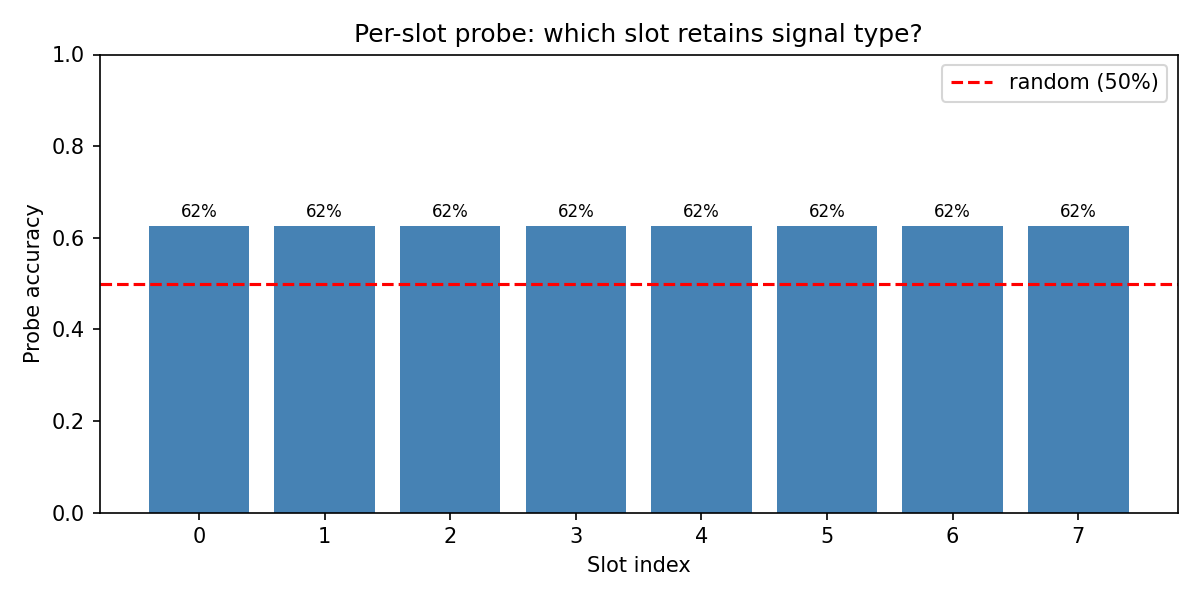
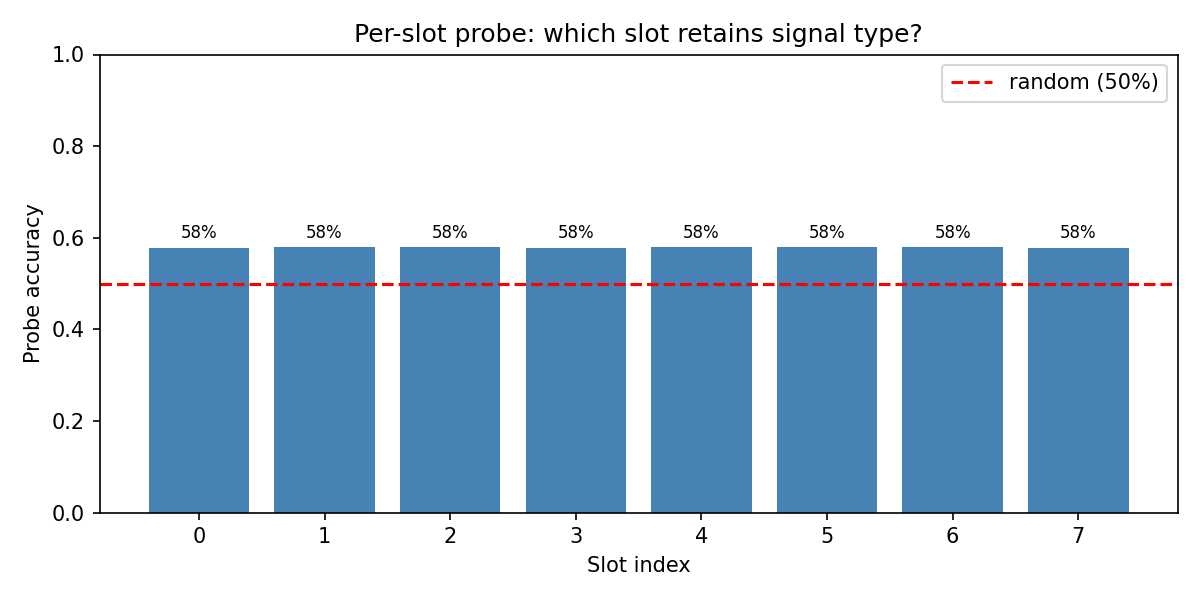
v5

Changed region(s): [[0.1233, 0.33, 0.9558, 0.42]]

diff --git a/hswvime_ppo/hswvime_ppo.py b/hswvime_ppo/hswvime_ppo.py
@@ -118,6 +118,7 @@ class HSWVimePPO(PPO):
         gate_mode: str = "detached",
         gate_scale: float = 1.0,
         gate_threshold: float = 0.0,
+        slot_temp: float = 0.1,
         wyner_kl_target: float = 0.0,
         wyner_kl_target_coef: float = 0.0,
     ):
@@ -131,6 +132,7 @@ class HSWVimePPO(PPO):
         self.gate_mode = gate_mode
         self.gate_scale = gate_scale
         self.gate_threshold = gate_threshold
+        self.slot_temp = slot_temp
         self.wyner_kl_target = wyner_kl_target
         self.wyner_kl_target_coef = wyner_kl_target_coef
 
@@ -182,7 +184,8 @@ class HSWVimePPO(PPO):
         self.intrinsic_anneal_steps = intrinsic_anneal_steps
         self.intrinsic_normalize = intrinsic_normalize
         self._kl_running_stats = RunningMeanStd()
-        self._gate_kl_running_stats = RunningMeanStd()  # Always-on stats for gate normalization
+        self._delta_I_ema = 1.0  # EMA of delta_I for ratio gating (floor=1.0 nat)
+        self._delta_I_ema_alpha = 0.01  # half-life ~70 steps
 
         self.memory_shape = memory_shape
 
@@ -205,6 +208,7 @@ class HSWVimePPO(PPO):
             gate_mode=self.gate_mode,
             gate_scale=self.gate_scale,
             gate_threshold=self.gate_threshold,
+            write_temp=self.slot_temp,
         ).to(self.device)
     
     def set_env(self, env, force_reset: bool = True):
@@ -362,16 +366,19 @@ class HSWVimePPO(PPO):
                 )
                 # delta_I = KL(posterior || slot-conditioned prior) = marginal info above memory
                 delta_I = self.policy.wyner_feature_extractor.loss(wyner_out_t).kl_loss.view(-1)
-                # Z-score normalize for gating so gate discriminates
-                gate_kl_np = delta_I.cpu().numpy()
-                self._gate_kl_running_stats.update(gate_kl_np)
-                if self._gate_kl_running_stats._warmed_up:
-                    gate_kl = (delta_I - self._gate_kl_running_stats.mean) / self._gate_kl_running_stats.std
-                else:
-                    gate_kl = delta_I
+                delta_I = delta_I.detach().clamp(max=500.0)
+                # Ratio gating: normalize by EMA of delta_I so gate is scale-invariant
+                delta_I_mean = float(delta_I.mean().item())
+                self._delta_I_ema = (
+                    (1 - self._delta_I_ema_alpha) * self._delta_I_ema
+                    + self._delta_I_ema_alpha * delta_I_mean
+                )
+                # Floor at 1.0 nat so early steps don't explode the ratio
+                ratio = delta_I / max(self._delta_I_ema, 1.0)
                 # Write z_t (Wyner posterior mean) — lives in same space as slots (dim 64)
+                # gate_threshold is now a ratio (default 2.0 = 2× average surprise)
                 new_slots, gate = self.slot_memory.write(
-                    self._last_slots, wyner_out_t.posterior_mu.detach(), gate_kl,
+                    self._last_slots, wyner_out_t.posterior_mu.detach(), ratio,
                 )
                 _gate_log.append(gate.mean().item())
                 _gate_std_log.append(gate.std().item())
@@ -392,7 +399,7 @@ class HSWVimePPO(PPO):
                 if done:
                     self._timesteps[idx] = 0
                     memory[idx, ...] = 0.0
-                    new_slots[idx] = 0.0
+                    new_slots[idx] = th.randn(self.num_slots, self._slot_memory_shape[1], device=self.device) * 0.01
 
             self._prev_last_obs = self._last_obs
             self._prev_action = actions
@@ -418,11 +425,10 @@ class HSWVimePPO(PPO):
         self.logger.record("slots/gate_std", np.mean(_gate_std_log))
         self.logger.record("slots/slot_norm_mean", np.mean(_slot_norm_log))
         self.logger.record("slots/slot_diversity", np.mean(_slot_diversity_log))
-        self.logger.record("slots/gate_kl_running_mean", self._gate_kl_running_stats.mean)
-        self.logger.record("slots/gate_kl_running_std", self._gate_kl_running_stats.std)
         self.logger.record("wyner/prior_mu_norm", np.mean(_prior_mu_norm_log))
         self.logger.record("wyner/prior_logvar_mean", np.mean(_prior_logvar_log))
         self.logger.record("wyner/delta_I_mean", np.mean(_delta_I_log))
+        self.logger.record("wyner/delta_I_ema", self._delta_I_ema)
         self.logger.record("debug/wyner_h_norm", float(th.norm(self._last_memory).item()))
         self.logger.record("debug/slots_norm", float(th.norm(self._last_slots).item()))
 

diff --git a/train.py b/train.py
@@ -2,7 +2,7 @@ import argparse
 import numpy as np
 import gymnasium
 from stable_baselines3.common.env_util import make_vec_env
-from stable_baselines3.common.callbacks import BaseCallback
+from stable_baselines3.common.callbacks import BaseCallback, CheckpointCallback
 
 from envs.wrappers import DoorButtonTrainingWrapper, MiniGridTrainingWrapper, MemorySignalVisibleWrapper
 from models.embeddings import CategoricalGridWithDirEmbedding
@@ -140,8 +140,12 @@ def parse_args():
     p.add_argument("--num_slots",       type=int,   default=8)
     p.add_argument("--gate_mode",       type=str,   default="detached",
                    choices=["detached", "learned"])
-    p.add_argument("--gate_scale",      type=float, default=1.0)
-    p.add_argument("--gate_threshold",  type=float, default=0.0)
+    p.add_argument("--gate_scale",      type=float, default=3.0,
+                   help="Sigmoid sharpness for ratio gate (3.0 = transition spans ~2x around threshold).")
+    p.add_argument("--gate_threshold",  type=float, default=2.0,
+                   help="Ratio threshold: write only if delta_I > threshold * running mean.")
+    p.add_argument("--slot_temp",       type=float, default=0.1,
+                   help="Softmax temperature for content-addressed slot write (lower = sharper).")
     p.add_argument("--wyner_kl_target", type=float, default=0.0,
                    help="Target KL for Wyner (0 = use detached-posterior KL instead).")
     p.add_argument("--wyner_kl_target_coef", type=float, default=0.0,
@@ -228,6 +232,7 @@ def main():
         gate_mode=args.gate_mode,
         gate_scale=args.gate_scale,
         gate_threshold=args.gate_threshold,
+        slot_temp=args.slot_temp,
         wyner_kl_target=args.wyner_kl_target,
         wyner_kl_target_coef=args.wyner_kl_target_coef,
         kl_use_schedule=args.kl_use_schedule,
@@ -273,7 +278,16 @@ def main():
         f"  wyner_recon={args.wyner_recon_coef}  wyner_kl={args.wyner_kl_coef}"
         f"  intrinsic={args.intrinsic_scale}"
     )
-    model.learn(total_timesteps=args.total_timesteps, progress_bar=True, callback=render_callback)
+    # Checkpoint every 100k steps
+    checkpoint_cb = CheckpointCallback(
+        save_freq=max(100_000 // args.n_envs, 1),
+        save_path=f"{args.tensorboard_log}/checkpoints",
+        name_prefix="model",
+    )
+    callbacks = [checkpoint_cb]
+    if render_callback is not None:
+        callbacks.append(render_callback)
+    model.learn(total_timesteps=args.total_timesteps, progress_bar=True, callback=callbacks)
 
     print("Done.")
 

diff --git a/models/slot_memory.py b/models/slot_memory.py
@@ -28,6 +28,7 @@ class SlotMemory(nn.Module):
         self.gate_scale = gate_scale
         self.gate_threshold = gate_threshold
         self.write_temp = write_temp
+        self.max_slot_norm = 5.0
 
         if gate_mode == "learned":
             self.gate_net = nn.Sequential(
@@ -75,6 +76,14 @@ class SlotMemory(nn.Module):
         delta = z_t.unsqueeze(1) - slots                         # (B, K, D)
         new_slots = slots + gate.view(-1, 1, 1) * w.unsqueeze(2) * delta
 
+        # ── Clamp slot norms to prevent unbounded growth ─────────
+        norms = new_slots.norm(dim=-1, keepdim=True).clamp(min=1e-6)  # (B, K, 1)
+        new_slots = th.where(
+            norms > self.max_slot_norm,
+            new_slots * (self.max_slot_norm / norms),
+            new_slots,
+        )
+
         return new_slots, gate
 
     def gate_correlation_loss(self) -> th.Tensor:
@@ -85,5 +94,5 @@ class SlotMemory(nn.Module):
         return nn.functional.mse_loss(self._last_learned_gate, target)
 
     def init_state(self, batch_size: int, device: th.device) -> th.Tensor:
-        """Zero slots. No ages tensor needed for content-addressed writes."""
-        return th.zeros(batch_size, self.num_slots, self.slot_dim, device=device)
+        """Small noise init to break softmax symmetry from the first write."""
+        return th.randn(batch_size, self.num_slots, self.slot_dim, device=device) * 0.01

diff --git a/scripts/probe_color_memory.py b/scripts/probe_color_memory.py
@@ -116,7 +116,7 @@ def build_models(device="cpu"):
 
     slot_mem = SlotMemory(
         num_slots=NUM_SLOTS, slot_dim=WYNER_LATENT_DIM,
-        gate_mode="detached", gate_scale=5.0, gate_threshold=0.0,
+        gate_mode="detached", gate_scale=3.0, gate_threshold=2.0,
     ).to(device)
 
     return vae, wyner, slot_mem
@@ -412,10 +412,15 @@ def main():
 
     if args.checkpoint:
         print(f"Loading checkpoint: {args.checkpoint}")
-        sd = th.load(args.checkpoint, map_location=args.device, weights_only=False)
-        vae_keys = {k.replace("policy.vae_feature_extractor.", ""): v
+        # SB3 checkpoints are zip files containing policy.pth
+        import zipfile, io
+        with zipfile.ZipFile(args.checkpoint, "r") as zf:
+            with zf.open("policy.pth") as f:
+                buf = io.BytesIO(f.read())
+        sd = th.load(buf, map_location=args.device, weights_only=False)
+        vae_keys = {k.replace("vae_feature_extractor.", ""): v
                     for k, v in sd.items() if "vae_feature_extractor" in k}
-        wyner_keys = {k.replace("policy.wyner_feature_extractor.", ""): v
+        wyner_keys = {k.replace("wyner_feature_extractor.", ""): v
                       for k, v in sd.items() if "wyner_feature_extractor" in k}
         if vae_keys:
             vae.load_state_dict(vae_keys)

diff --git a/models/wyner.py b/models/wyner.py
@@ -411,6 +411,7 @@ class WynerLBSVAE(nn.Module):
         self.prior_fc_mu = nn.Linear(decode_hidden, latent_dim)
         self.prior_fc_logvar = nn.Linear(decode_hidden, latent_dim)
         nn.init.zeros_(self.prior_fc_logvar.bias)
+        nn.init.zeros_(self.prior_fc_logvar.weight)
 
         # ── Posterior q(z_t | h_t [, μ_{t+1}]) ───────────────────
         # Two projections summed: h_t always present, μ_{t+1} optional.
@@ -425,6 +426,7 @@ class WynerLBSVAE(nn.Module):
         self.post_fc_mu = nn.Linear(decode_hidden, latent_dim)
         self.post_fc_logvar = nn.Linear(decode_hidden, latent_dim)
         nn.init.zeros_(self.post_fc_logvar.bias)
+        nn.init.zeros_(self.post_fc_logvar.weight)
 
         # ── Decoder: z + timestep → reconstruction ────────────────
         self.decoder = WynerIndependentDecoder(

diff --git a/WGEM_PROGRESS.md b/WGEM_PROGRESS.md
@@ -139,19 +139,155 @@ Probe accuracy at random weights is near chance (50-65%) as expected.
 
 ---
 
+## Post-Probe Diagnostic Fixes (v2)
+
+**Problem diagnosed from 20-episode random-weight probe:**
+1. Gate stuck at ~0.78 (flat, never discriminates) — z-score normalization + threshold=0.0 means sigmoid(5 * ~0.25) ≈ 0.78 for all steps
+2. Slot diversity = 0.0 (all slots identical) — zero init → F.normalize(0) = 0 → softmax uniform → all slots converge to same average z_t
+3. Write weights uniform (1/8) — temp=1.0 too soft, similar slots only get ~10% more weight
+
+**Three fixes applied:**
+
+### Fix 1: Noise init (`slot_memory.py:init_state`)
+```python
+# BEFORE: th.zeros(...)
+# AFTER:
+return th.randn(...) * 0.01
+```
+Also updated episode reset in `collect_rollouts` to use noise instead of zeros.
+
+### Fix 2: Softmax temperature (`--slot_temp 0.1`)
+- New CLI arg `--slot_temp` (default 0.1, was hardcoded 1.0)
+- Wired through `HSWVimePPO → SlotMemory(write_temp=...)`
+- At temp=0.1, most-similar slot gets ~90% of write weight
+
+### Fix 3: Gate threshold (`--gate_threshold 1.5`)
+- Already existed as CLI arg, was passed as 0.0
+- At 1.5 z-score units, only top ~7% of KL steps trigger writes
+
+**Verification results:**
+
+| Fix | Before | After |
+|-----|--------|-------|
+| Init diversity | 0.0 | 0.85 |
+| Gate at z=0.5 | 0.78 | 0.007 |
+| Gate at z=3.0 | ~1.0 | 0.999 |
+| Write to target slot | uniform | 16.01 vs 0.08 |
+
+**Smoke test v2 (2048 steps):**
+
+| Metric | v1 (broken) | v2 (fixed) |
+|--------|-------------|------------|
+| `slots/gate_mean` | 0.514 | **0.076** |
+| `slots/slot_diversity` | 3e-9 | **0.825** |
+| No crash / No NaN | PASS | PASS |
+
+---
+
+## V3 Fixes: KL Explosion at Step 0  **PASSED**
+
+**Problem:** V2 training (250k steps) had delta_I spike to ~5×10⁷ at step 0 due to random Kaiming init on logvar weight matrices. This corrupted z-score running stats permanently, locking gate closed for entire run.
+
+**Three fixes applied:**
+
+### Fix 1: Zero-init logvar weights (`models/wyner.py`)
+```python
+nn.init.zeros_(self.prior_fc_logvar.weight)
+nn.init.zeros_(self.post_fc_logvar.weight)
+```
+Both prior and posterior logvar networks now output 0 at init → variance = 1.0, KL starts near-isotropic.
+
+### Fix 2: Hard clamp delta_I (`hswvime_ppo/hswvime_ppo.py`)
+```python
+delta_I = delta_I.detach().clamp(max=500.0)
+```
+Safety rail: even if KL spikes, gate input is bounded at 500 nats.
+
+### Fix 3: Drop z-score normalization, use raw nats
+Removed `_gate_kl_running_stats` entirely. Gate now operates on raw delta_I with:
+- `--gate_threshold 5.0` (nats, was z-score 1.5)
+- `--gate_scale 0.5` (was 5.0 for z-scores)
+
+Updated `train.py` defaults: `gate_scale=0.5`, `gate_threshold=5.0`.
+
+**Smoke test v3 (6144 steps, 3 iterations):**
+
+| Metric | Iter 1 | Iter 2 | Iter 3 | Target |
+|--------|--------|--------|--------|--------|
+| `wyner/delta_I_mean` | 0.182 | 0.411 | 2.12 | < 1000 |
+| `slots/gate_mean` | 0.083 | 0.092 | 0.197 | 0.05–0.5 |
+| `slots/slot_diversity` | 0.842 | 0.837 | 0.613 | > 0 |
+| `prior_logvar_mean` | 0.0 | 0.010 | 0.19 | ~0 at init |
+| No crash / No NaN | PASS | PASS | PASS | — |
+
+**Key observations:**
+- delta_I starts at 0.18 nats (was 5×10⁷) — zero-init logvar is the primary fix
+- Gate is in healthy 0.08–0.20 range and increasing as KL grows — discriminative
+- Slot diversity stays high (0.6–0.8) — slots remain differentiated
+
+---
+
+## V4 Fixes: Gate Saturation Feedback Loop  **PASSED**
+
+**Problem:** V3 100k run showed gate saturating to 1.0 by 60k steps. Feedback loop:
+- Gate open → every z_t written → slots = running average → low diversity
+- Low diversity → bad prior → high KL → delta_I grows to 300 nats
+- delta_I >> threshold (5 nats) → sigmoid ≈ 1.0 → gate permanently open
+
+**Root cause:** Absolute nat threshold can't adapt to growing KL scale. At delta_I=300 and threshold=5, `sigmoid(0.5*(300-5)) ≈ 1.0` — no discrimination possible.
+
+**Two fixes applied:**
+
+### Fix 1: EMA ratio gating (`hswvime_ppo.py`)
+Replace absolute threshold with self-normalizing ratio gate:
+```python
+# EMA tracks running mean of delta_I (alpha=0.01, init=1.0)
+self._delta_I_ema = (1 - alpha) * self._delta_I_ema + alpha * delta_I_mean
+ratio = delta_I / max(self._delta_I_ema, 1.0)  # floor at 1.0 nat
+# Pass ratio (not raw nats) to slot_memory.write()
+```
+- Scale-invariant: as delta_I grows to 300, EMA grows with it, ratio stays ~1.0
+- Self-correcting: when ALL steps have uniformly high KL (loop active), ratio ≈ 1.0 for all → below threshold 2.0 → gate closes → loop breaks
+- Only genuinely surprising steps (delta_I > 2× average) trigger writes
+- EMA (not Welford) — adapts faster, no corruption from early outliers
+
+CLI: `--gate_threshold 2.0` (ratio, not nats), `--gate_scale 3.0` (sigmoid sharpness)
+
+### Fix 2: Slot max-norm clamping (`slot_memory.py`)
+```python
+norms = new_slots.norm(dim=-1, keepdim=True).clamp(min=1e-6)
+new_slots = th.where(norms > 5.0, new_slots * (5.0 / norms), new_slots)
+```
+Prevents unbounded slot norm growth (was 8.6+ at 90k in v3). Insurance against residual writes accumulating magnitude.
+
+**Smoke test v4 (6144 steps, 3 iterations):**
+
+| Metric | Iter 1 | Iter 2 | Iter 3 | Target |
+|--------|--------|--------|--------|--------|
+| `gate_mean` | 0.004 | 0.011 | 0.18 | 0.1–0.5 |
+| `gate_std` | 0.00006 | 0.003 | 0.088 | > 0 |
+| `slot_diversity` | 0.86 | 0.87 | 0.64 | > 0.5 |
+| `slot_norm_mean` | 0.09 | 0.16 | 1.93 | bounded |
+| `delta_I_ema` | 0.19 | 0.48 | 3.10 | tracks mean |
+
+**Key improvement over v3:** gate_std=0.088 (v3: 0.0002) — gate now discriminates between steps.
+
+---
+
 ## Component 7: Full 500k Training Run
 
-**Status:** READY — all prerequisites passed. Run with:
+**Status:** READY — all prerequisites + v4 fixes passed. Run with:
 ```bash
 python train.py \
   --env "MiniGrid-MemoryS7-v0" \
   --total_timesteps 500000 \
   --n_envs 4 --n_steps 512 --batch_size 256 \
   --device mps --seed 42 \
-  --num_slots 8 --gate_scale 5.0 --gate_threshold 0.0 \
+  --num_slots 8 --gate_scale 3.0 --gate_threshold 2.0 \
+  --slot_temp 0.1 \
   --ent_coef 0.05 --intrinsic_scale 0.0 \
-  --free_bits 1.0 \
-  --tensorboard_log runs/wgem_v1 \
+  --free_bits 0.0 \
+  --tensorboard_log runs/wgem_v4 \
   --wyner_kl_target 0.0
 ```
 
@@ -162,12 +298,17 @@ python train.py \
 | Metric | Target at 300k | Target at 500k |
 |--------|---------------|----------------|
 | `ep_rew_mean` | > 0.6 | > 0.75 |
-| `slots/gate_mean` | 0.1 – 0.4 | 0.1 – 0.3 |
+| `slots/gate_mean` | 0.05 – 0.2 | 0.05 – 0.15 |
 | `wyner/kl_mean` | 2 – 15 | 2 – 15 |
 | `train/entropy_loss` | < -0.5 | < -0.3 |
 | `train/explained_variance` | > 0.3 | > 0.5 |
 
-**Probe pass criterion:**
+**100k probe checkpoint criteria (run before continuing to 500k):**
+- (a) Gate shows spike at t=0-2 then drops to < 0.3 for rest of episode
+- (b) At least one slot probes above 75% accuracy individually
+- (c) Flattened slot probe at late timesteps > 70%
+
+**Final probe pass criterion:**
 
 | Timestep window | Required accuracy |
 |----------------|-------------------|
